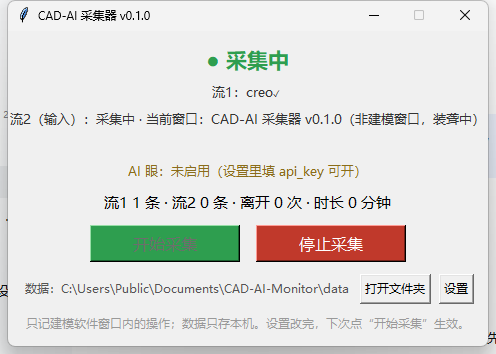
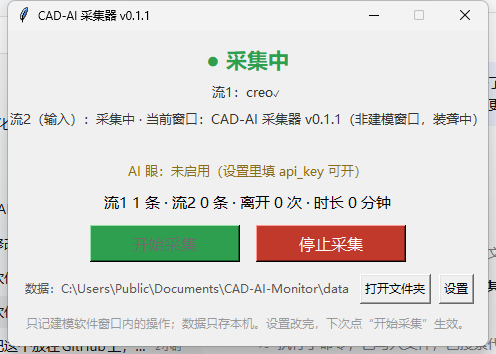
Release 0.1.1: fix the Creo backend label, refresh the screenshot
- APP_VERSION = "0.1.1" so the window title matches the published tag.
- CHANGELOG: 0.1.1 section describing the status-line fix and the new README
  screenshot.
- docs/screenshot-main.png re-taken with 0.1.1 (title bar and the creo checkmark
  both visible).

diff --git a/app/collector_core.py b/app/collector_core.py
@@ -30,7 +30,7 @@ import cad_discovery
 # 等觉得"别人可以放心用了"再发 1.0.0。
 # 注意：文档/注释里出现的 v2、v3 是**开发内部迭代编号**（第 2 代架构、第 3 代加视觉），
 # 不是发布版本号——两者不要混。
-APP_VERSION = "0.1.0"
+APP_VERSION = "0.1.1"
 
 # ---------- 配置默认值 ----------
 

diff --git a/CHANGELOG.md b/CHANGELOG.md
@@ -6,6 +6,23 @@ Format based on [Keep a Changelog](https://keepachangelog.com/en/1.1.0/);
 versioning follows [Semantic Versioning](https://semver.org/) —
 `0.x` means "early, interfaces may still change".
 
+## [0.1.1] - 2026-10-13
+
+Patch release taken while preparing the first public announcement.
+
+### Fixed
+
+- **The connected Creo backend showed up as `?✓` in the status line.** The Creo
+  bridge's state dict did not carry its `backend` name, so the window fell back to its
+  default label — and the same bug also mangled the hint line into `?：trail 文件…`.
+  Found by inspecting the very screenshot we were taking for the README.
+- Self-test now asserts that every bridge reports its own backend name, so this cannot
+  come back unnoticed.
+
+### Added
+
+- A screenshot of the running window at the top of both READMEs.
+
 ## [0.1.0] - 2026-10-12
 
 First public pre-release. Windows only, tested against SolidWorks 2022, Creo Parametric
